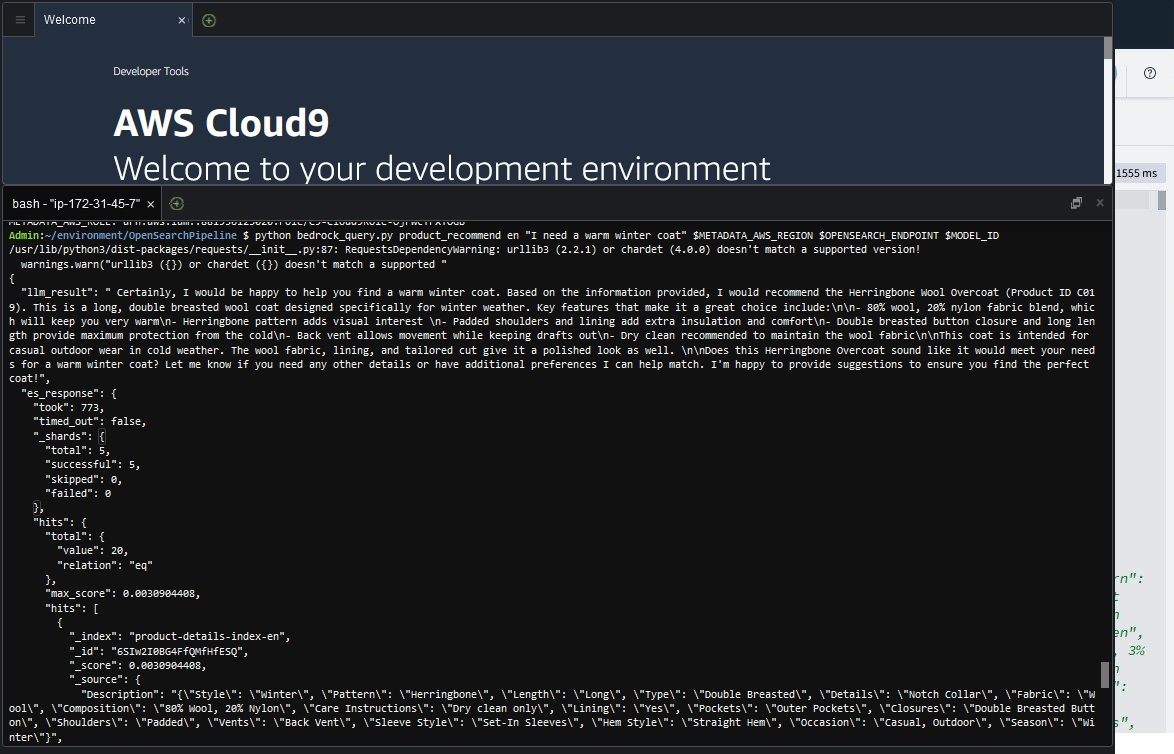
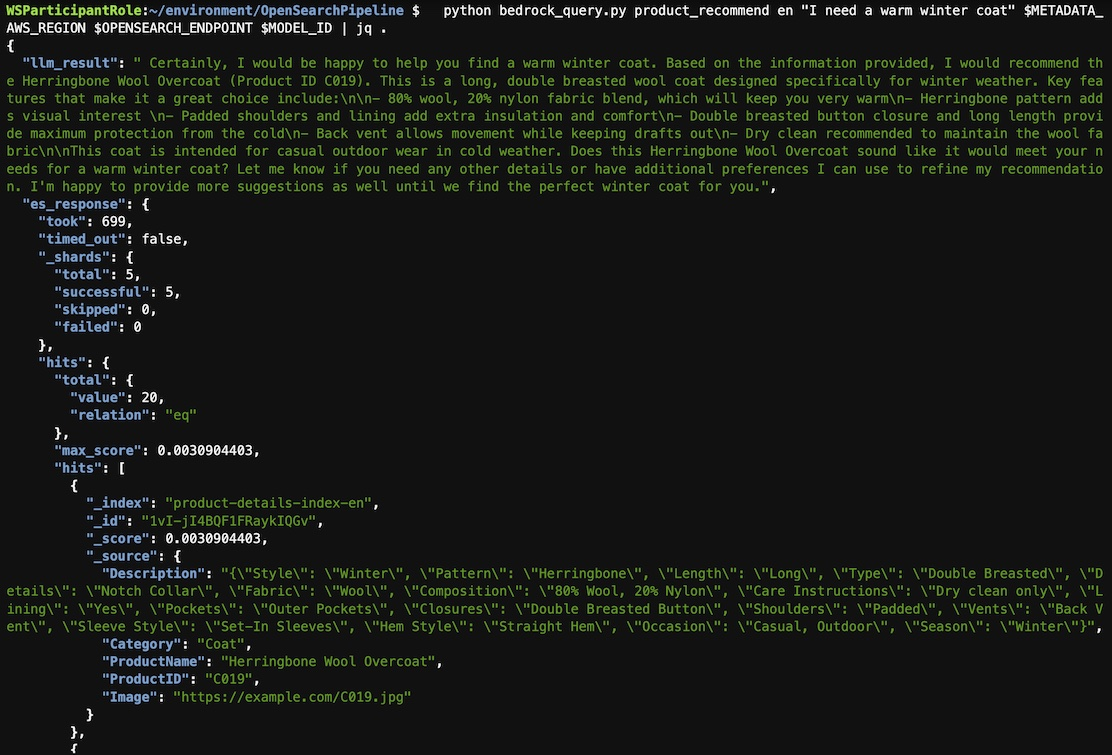
Finishing touches

diff --git a/content/dynamodb-opensearch-zetl/queries/index.en.md b/content/dynamodb-opensearch-zetl/queries/index.en.md
@@ -55,18 +55,18 @@ The script constructs a query that searches the OpenSearch index for products th
       }' | jq .
     ```
 
-    Try changing "Spandex" to "Polyester" and see how the results change.
+    Try changing `Spandex` to `Polyester` and see how the results change.
 
  1. Finally, let's ask Bedrock to provide some product recommendations using one of the scripted provided with the lab. 
 
-    This query will use OpenSearch as a vector database to find the product that most closely matches your desired intent.The contents of the OpenSearch index were created through the DynamoDB Zero ETL connector. When records are added to DynamoDB, the connector automatically moves them into OpenSearch. OpenSearch then uses the Titan Embeddings model to decorate that data. 
+    This query will use OpenSearch as a vector database to find the product that most closely matches your desired intent. The contents of the OpenSearch index were created through the DynamoDB Zero ETL connector. When records are added to DynamoDB, the connector automatically moves them into OpenSearch. OpenSearch then uses the Titan Embeddings model to decorate that data. 
 
     The script constructs a query that searches the OpenSearch index for products that are most relevant to your input text. This is done using a "neural" query, which leverages the embeddings stored in OpenSearch to find products with similar textual content. After retrieving relevant products, the script uses Bedrock to generate a more sophisticated response through the Claude model. This involves creating a prompt that combines your original query with the retrieved data and sending this prompt to Bedrock for processing. 
 
 
     In the console, execute the provided python script to make a query to Bedrock and return product results.
     ```bash
-      python bedrock_query.py product_recommend en "I need a warm winter coat" $METADATA_AWS_REGION $OPENSEARCH_ENDPOINT $MODEL_ID 
+    python bedrock_query.py product_recommend en "I need a warm winter coat" $METADATA_AWS_REGION $OPENSEARCH_ENDPOINT $MODEL_ID | jq .
     ```
 
     ![Query results](/static/images/ddb-os-zetl17.jpg)
@@ -87,6 +87,8 @@ The script constructs a query that searches the OpenSearch index for products th
 
  1. Try modifying the DynamoDB get-item above to retrieve your new item. Next, try modifying the OpenSearch query to search for "Socks" that contain "Wool". Finally, tell Bedrock "I need warm socks for hiking in winter". Did it recommend your new item?
 
+::alert[Don't just stop there with your queries. Trying asking for clothing for winter (will it recommend products with wool?) or for bedtime. Note that there is a very small catalog of products to be embedded, so your search terms should be limited based on what you saw when you reviewed the DynamoDB table.]{header="Keeping querying!" type="info"}
+
 Congratulations! You have completed the lab.
 
-::alert[_If running in you own account, remember to delete the CloudFormation Stack after completing the lab to avoid unexpected charges._]
+::alert[_If running in you own account, remember to delete the CloudFormation Stack after completing the lab to avoid unexpected charges._]{type="warning"}

diff --git a/content/dynamodb-opensearch-zetl/integrations/zetl.en.md b/content/dynamodb-opensearch-zetl/integrations/zetl.en.md
@@ -99,7 +99,7 @@ Amazon DynamoDB offers a zero-ETL integration with Amazon OpenSearch Service thr
 
     ![Create pipeline](/static/images/ddb-os-zetl15.jpg)
 
- 1. Wait until the pipeline has finished creating. This will take 5 minutes or more.
+ 1. **Wait until the pipeline has finished creating**. This will take 5 minutes or more.
 
 
  After the pipeline is created, it will take some additional time for the initial export from DynamoDB and import into OpenSearch Service. After you have waited several more minutes, you can check if items have replicated into OpenSearch by making a query in Dev Tools in the OpenSearch Dashboards.
@@ -109,7 +109,10 @@ Amazon DynamoDB offers a zero-ETL integration with Amazon OpenSearch Service thr
 ```text
 GET /product-details-index-en/_search
 ```
-
-If your query does not have results, wait a few more minutes for the initial replication to finish and try again.
+You may encounter a few types of results:
+- If you see a 404 error of type *index_not_found_exception*, then you need to wait until the pipeline is `Active`. Once it is, this exception will go away.
+- If your query does not have results, wait a few more minutes for the initial replication to finish and try again.
 
 ![Create pipeline](/static/images/ddb-os-zetl16.jpg)
+
+Only continue once you see a return like the above, with a response body. Your hits may vary.

diff --git a/content/dynamodb-opensearch-zetl/index.en.md b/content/dynamodb-opensearch-zetl/index.en.md
@@ -1,5 +1,5 @@
 ---
-title: "LBED: Enable Gen AI and search in Amazon DynamoDB workloads with Amazon Bedrock and the zero-ETL connector to Amazon OpenSearch Service"
+title: "LBED: DynamoDB GenAI with Amazon Bedrock & Zero-ETL to OpenSearch Integration"
 date: 2024-02-23T00:00:00-00:00
 weight: 20
 chapter: true
@@ -15,6 +15,6 @@ DynamoDB is a NoSQL database designed for high availability, performance, and sc
 
 This module will allow you to set up one such use case. DynamoDB will be the source of truth for product catalog information and OpenSearch will provide vector search capabilities to enable Amazon Bedrock (a generative AI service) to make product recommendations.
 
-::alert[_This lab creates OpenSearch Service, DynamoDB, Amazon Bedrock, and Secrets Manager resources. If running in you own account, these resources will incur charges of approximately $30 a month. Remember to delete the CloudFormation Stack after completing the lab._]
+::alert[_This lab creates OpenSearch Service, DynamoDB, and Secrets Manager resources. If running in you own account, these resources will incur charges of approximately $30 a month. Remember to delete the CloudFormation Stack after completing the lab._]{type="warning"}
 
 ![Final Deployment Architecture](/static/images/ddb-os-zetl.png)

diff --git a/content/dynamodb-opensearch-zetl/service-config/ddb.en.md b/content/dynamodb-opensearch-zetl/service-config/ddb.en.md
@@ -14,7 +14,7 @@ If you have closed your Cloud9 IDE, follow these instructions to re-connect
  1. Open the link for Cloud9IdeUrl in a new tab.
 
 
-## Load Data
+## Load and Review Data
 
 Load the sample data into your DynamoDB Table.
 ```bash
@@ -22,3 +22,7 @@ cd ~/environment/OpenSearchPipeline
 aws dynamodb batch-write-item --request-items=file://product_en.json
 ```
  ![CloudFormation Outputs](/static/images/ddb-os-zetl11.jpg)
+
+ Next, navigate to the DynamoDB section of the AWS Management Console and click `Explore items` and then select the `ProductDetails` table. This is where the product information for this exercise originates from. Review the product names to get an idea for what kind of natural language searches you might want to provide later at the end of the lab.
+
+  ![DynamoDB Console](/static/images/ddb-os-zetl19.jpg)
